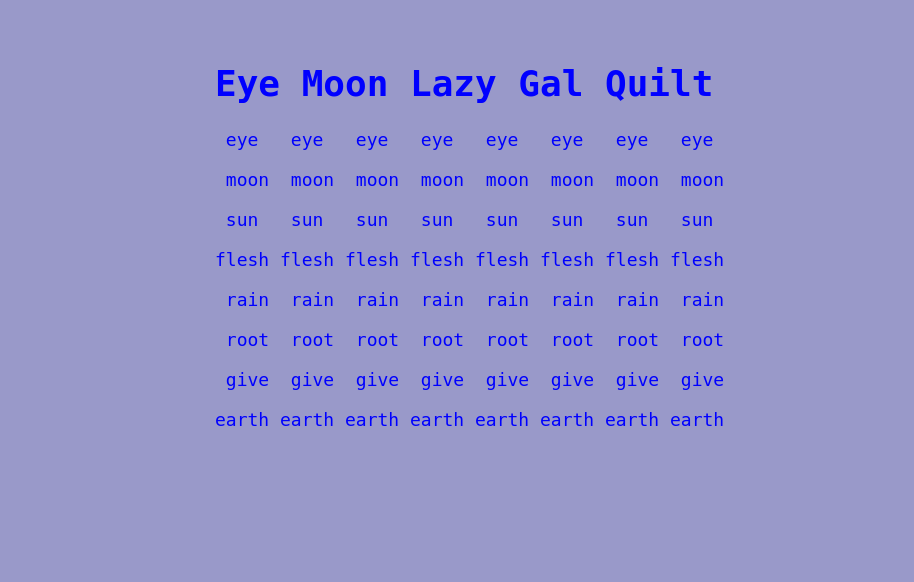
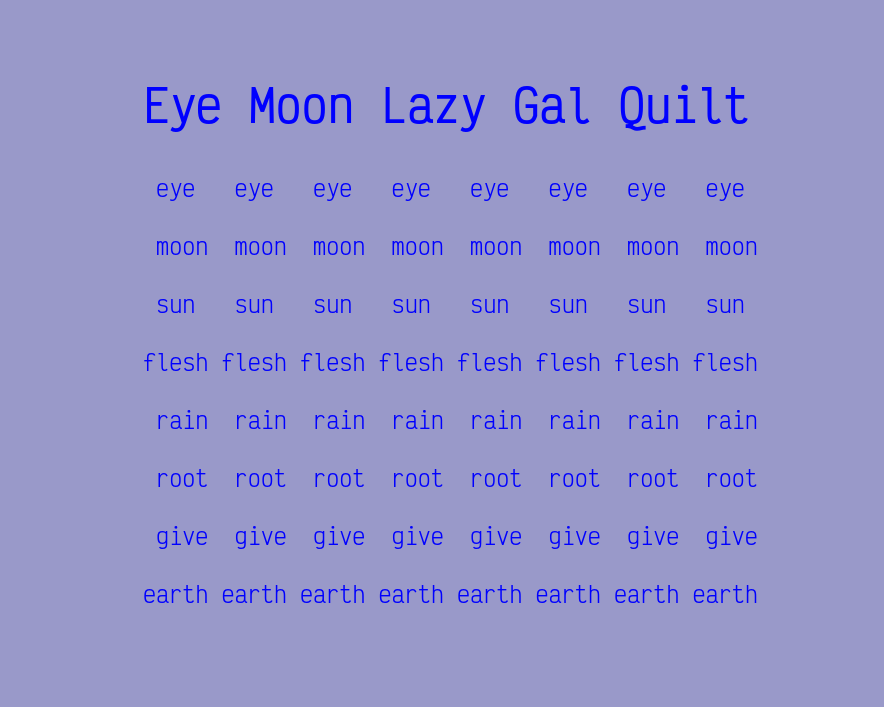
update font choice so new img for 293

diff --git a/293/daily-quilt-poem/index.html b/293/daily-quilt-poem/index.html
@@ -5,8 +5,12 @@
                 <meta name="viewport" content="width=device-width, initial-scale=1.0" />
 		<title>Daily Quilt Poem</title>
 <style>
+@font-face {
+  font-family: victormono;
+  src: url(VictorMono-Regular.woff); 
+}
 body {
-  font-family: monospace;
+  font-family: victormono, monospace; 
   color: blue;
   background-color: rgba(0,0,120,0.4);
   padding: 2rem;
